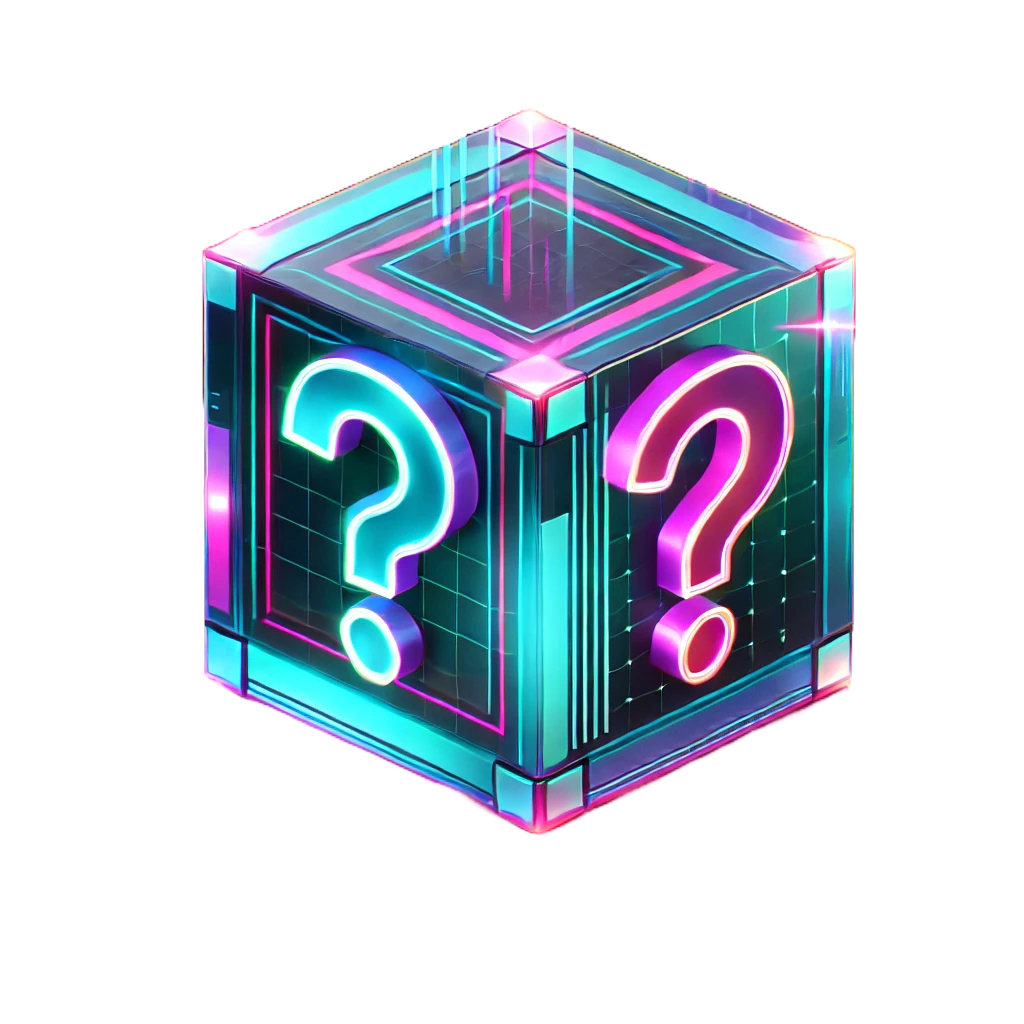
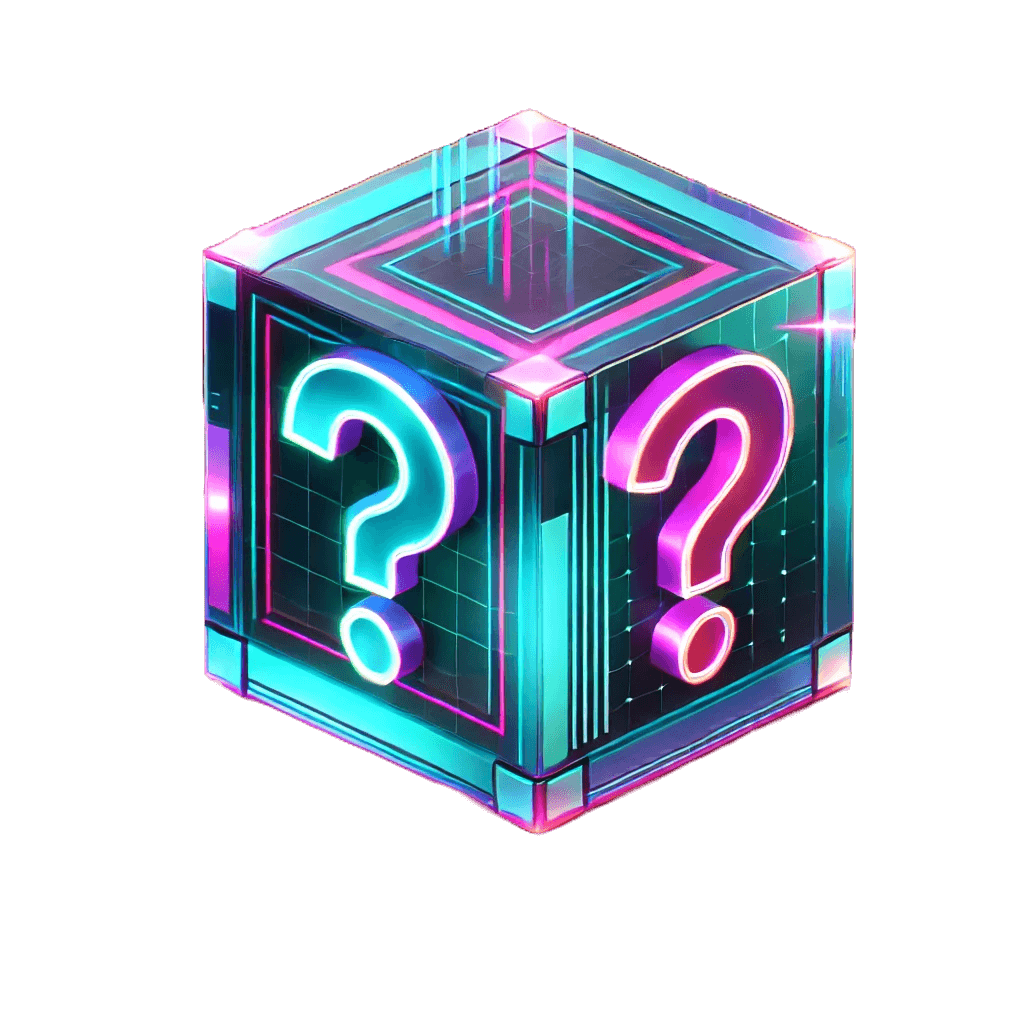
improve Lighthouse index

Changed region(s): [[0.6875, 0.5938, 0.7188, 0.6562], [0.5312, 0.7812, 0.5625, 0.8125]]

diff --git a/front-end/src/components/Layout/Navbar.tsx b/front-end/src/components/Layout/Navbar.tsx
@@ -1,7 +1,7 @@
 import React, { useState } from 'react'
 import { WalletMultiButton } from '@solana/wallet-adapter-react-ui'
 import { cn, scrollToSection, shortenAddress } from '../../libs/utils'
-import logo from '../../assets/elements/logo.png'
+import logo from '../../assets/boxes/logo.png'
 import { useWallet } from '@solana/wallet-adapter-react'
 import { Link } from 'react-router-dom'
 import { WalletDisconnectButton } from '@solana/wallet-adapter-react-ui'

diff --git a/front-end/src/pages/Home/components/BoxesSection.tsx b/front-end/src/pages/Home/components/BoxesSection.tsx
@@ -1,7 +1,7 @@
 import React from 'react'
 import { BoxType } from '../../../libs/interfaces'
 import { useSelector } from 'react-redux'
-import cyanBox from '../../../assets/boxes/cyan_box-Photoroom.png'
+import cyanBox from '../../../assets/boxes/logo.png'
 import chillguy from '../../../assets/coins/chill-guy.png'
 import { BuyModal } from './modal/BuyModal'
 

diff --git a/front-end/index.html b/front-end/index.html
@@ -44,7 +44,7 @@
             as="image"
             href="/front-end/src/assets/elements/vector-shape.png"
         />
-
+        <link rel="preconnect" href="https://api.coingecko.com" />
         <meta name="viewport" content="width=device-width, initial-scale=1.0" />
         <script type="application/ld+json">
             {

diff --git a/front-end/src/pages/Home/components/modal/OpenBoxModal.tsx b/front-end/src/pages/Home/components/modal/OpenBoxModal.tsx
@@ -1,8 +1,5 @@
 import { useState } from 'react'
 
-function sleep(ms: number) {
-    return new Promise((resolve) => setTimeout(resolve, ms))
-}
 import {
     Modal,
     ModalBody,
